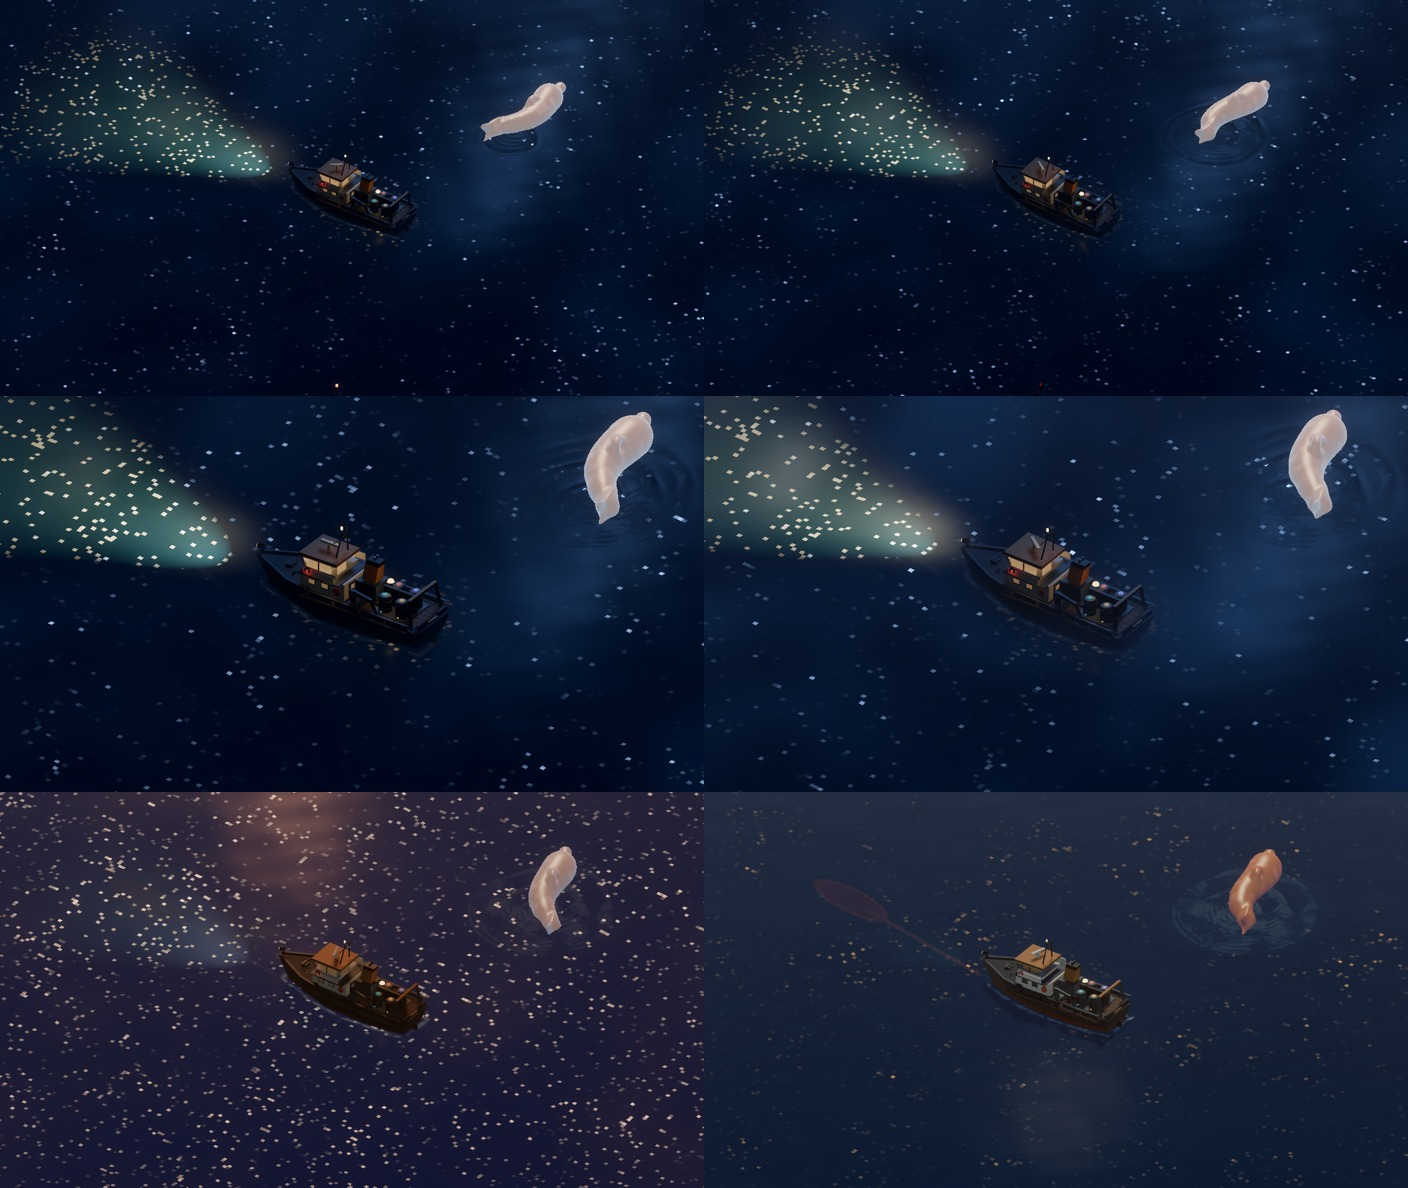
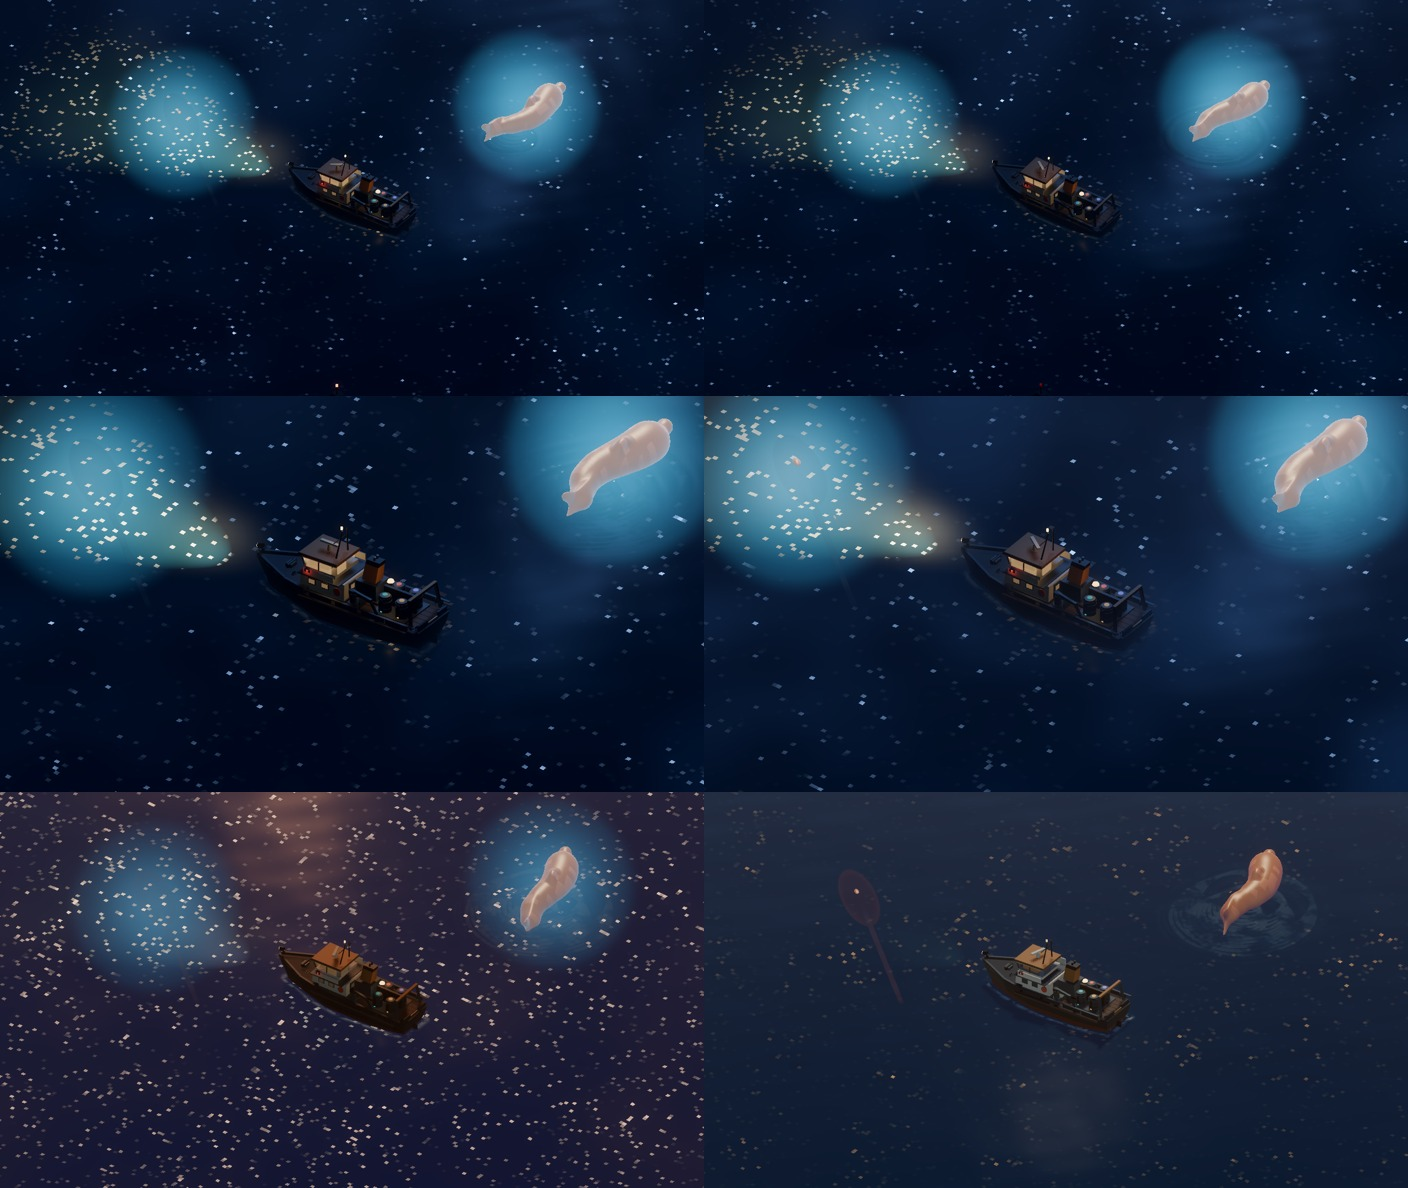
Киты: горб под водой читается (каппа альфы), аура вытянута по телу

diff --git a/tests/check_sea_whales.py b/tests/check_sea_whales.py
@@ -37,6 +37,7 @@ assert 'float hump = (1.0 - smoothstep(0.70, 1.20, hump_e))' in shader  # тём
 assert 'vec3 up = normalize(cross(side, dir));' in shader            # тангаж
 assert 'fish_sdf(p, C, s, u_fish_state[i].w, u_fish_pitch[i],' in shader
 assert 'out_col = scene_col * (1.0 - u_veil_dark * m)' in shader     # тень под водой
+assert 'float veil_cap = mix(0.10, 0.55,' in shader                  # горб виден
 
 # --- движение: пружина глубины, тангаж из вертикальной скорости, гребок с глайдом
 assert 'const SPRING := 1.7' in whales
@@ -54,8 +55,8 @@ assert '_fish.splash_burst(' in whales
 assert 'func _blow(w: Whale) -> void:' in whales
 # Свечение: аура (аддитивный квад) + эмиссия кожи в шейдере; днём гаснет.
 assert 'res://shaders/whale_glow.gdshader' in whales
-assert 'quad.size = Vector2.ONE * BODY_LEN * 2.1' in whales
-assert 'var amount := dark * lit * 0.55' in whales
+assert 'quad.size = Vector2(BODY_LEN * 2.6, BODY_LEN * 1.2)' in whales
+assert 'var amount := dark * lit * 0.42' in whales
 glow_shader = Path('shaders/whale_glow.gdshader').read_text()
 assert 'render_mode blend_add, unshaded, depth_draw_never' in glow_shader
 assert 'float falloff = exp(-r * r * 3.0)' in glow_shader
